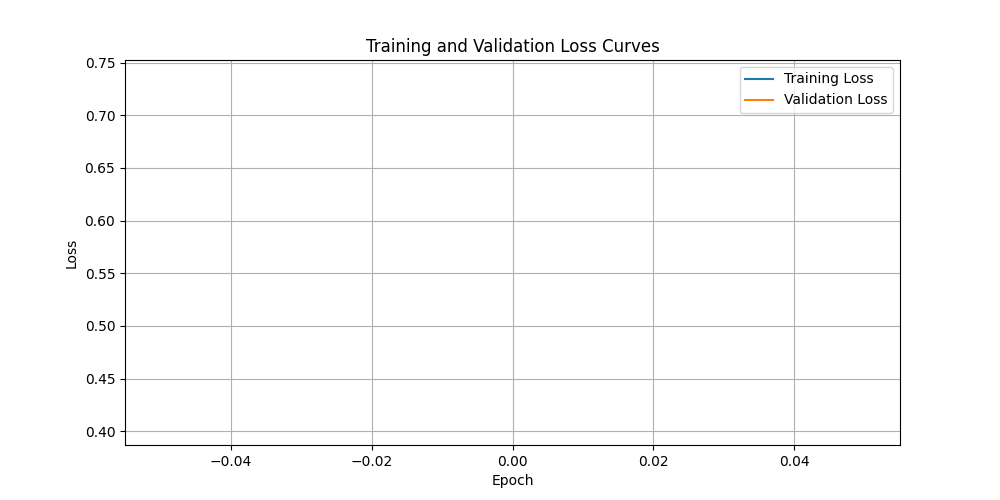
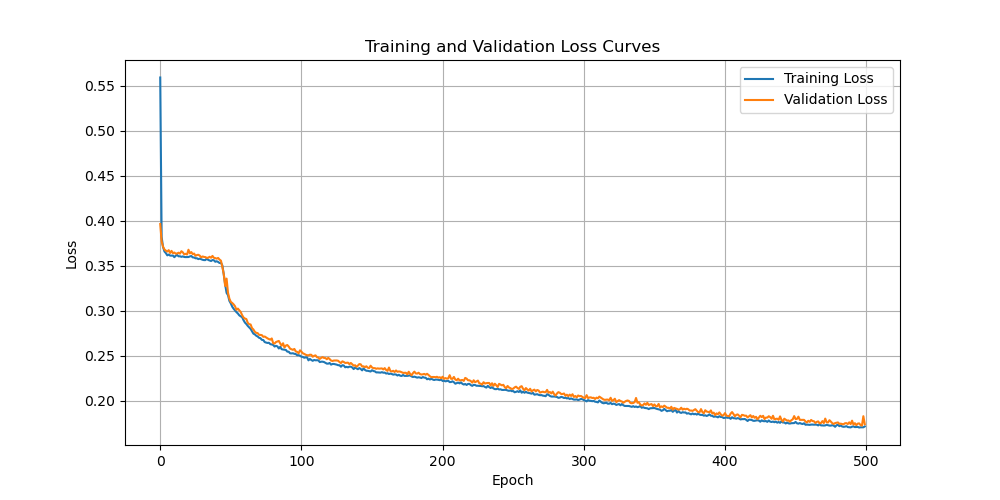
1

diff --git a/utils.py b/utils.py
@@ -95,7 +95,7 @@ def handle_argv_pre_train():
     parser = argparse.ArgumentParser(description='STMAE: Spatial-Temporal Masked Autoencoder for Multi-Device Wearable Human Activity Recognition')
     parser.add_argument('-u', '--test_user', type=int, nargs='+', default=[0], help='Test user')
     parser.add_argument('-d', '--dataset', type=str, default='opp', help='Dataset name', choices=['realworld', 'opp', 'realdisp', 'pamap'])
-    parser.add_argument('-g', '--gpu', type=str, default="3", help='Set specific GPU')
+    parser.add_argument('-g', '--gpu', type=str, default="1", help='Set specific GPU')
     parser.add_argument('-f', '--model_file', type=str, default=None, help='Pretrain model file')
     parser.add_argument('-l', '--label_index', type=int, default=23, help='Label Index')
     parser.add_argument('-s', '--seed', type=int, default=1, help='Seed')

diff --git a/try.py b/try.py
@@ -1,0 +1,11 @@
+import torch
+
+if torch.cuda.is_available():
+    print("GPU可用！")
+else:
+    print("GPU不可用，将使用CPU进行计算。")
+    
+num_devices = torch.cuda.device_count()
+print(f"可用的GPU数量: {num_devices}")
+
+print(torch.version.cuda)
